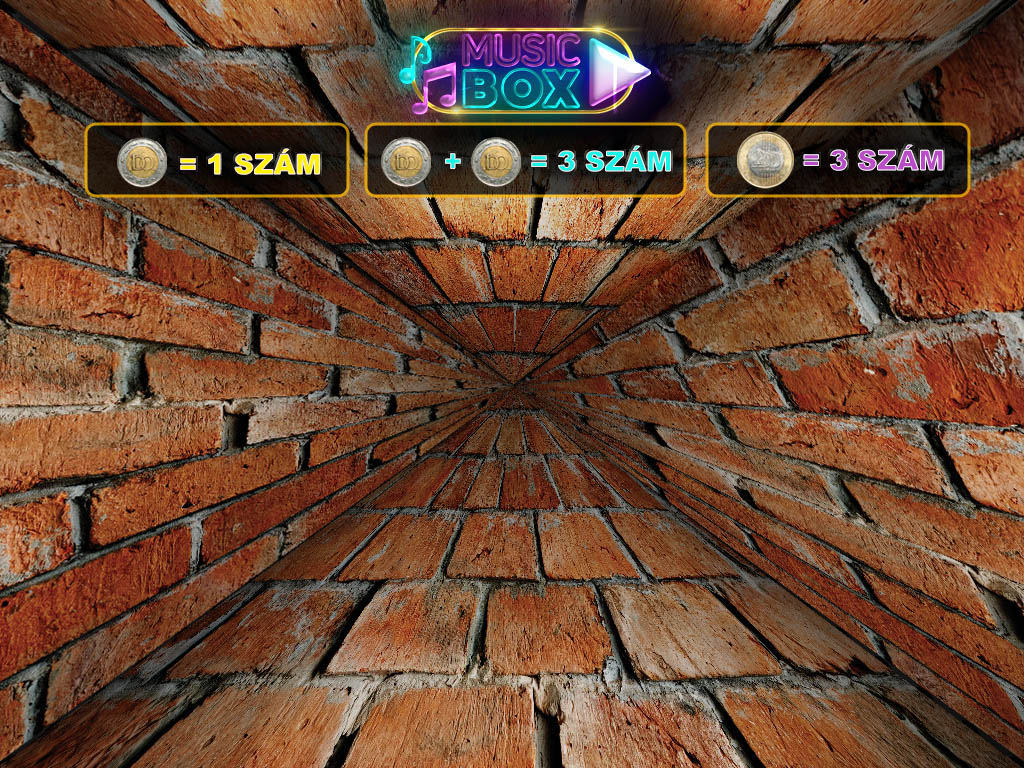
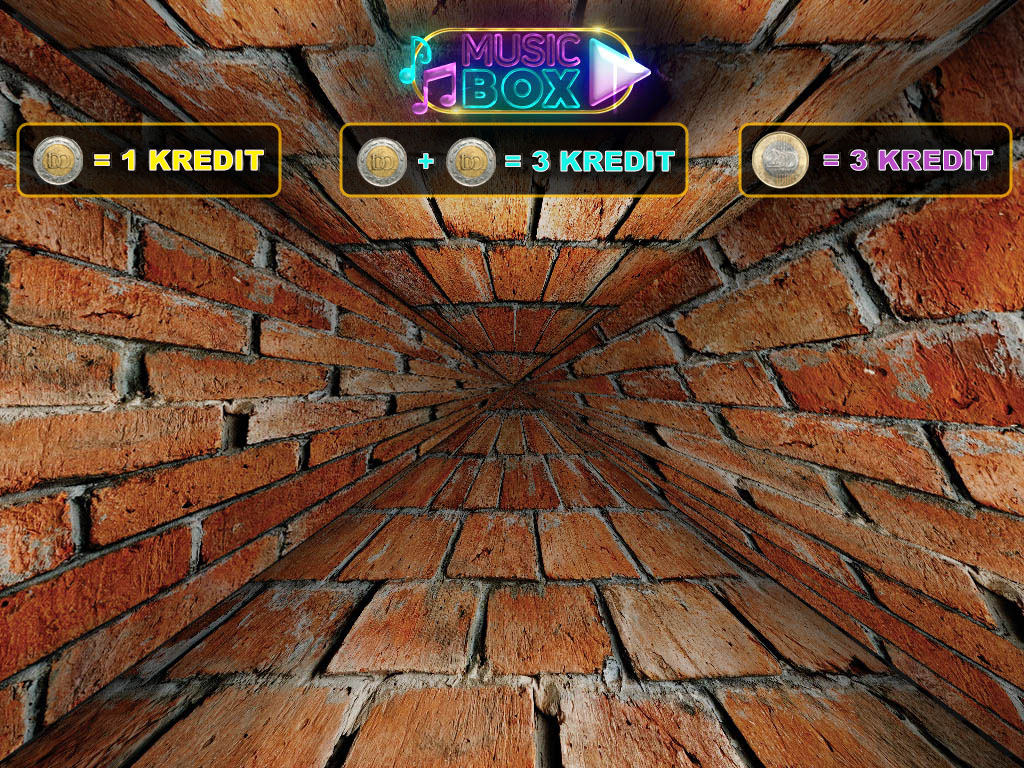
add changes to kredit

Changed region(s): [[0.0, 0.1562, 1.0, 0.2812]]

diff --git a/blue-app/ui/ApplicationWindow.py b/blue-app/ui/ApplicationWindow.py
@@ -39,6 +39,19 @@ from ui import TestHwWindow
 from ui import LanguageSwitcher
 
 from ui.ApplicationWindowHelpers import NotStartSameImmediatellyCheck, AppWindowArrowHandler
+import types
+
+def paintEvent(self, ev):
+    off = 50;
+    painter = QtGui.QPainter(self);
+    path = QtGui.QPainterPath()
+    drawFont = QtGui.QFont("arial-black", 20)
+    drawFont.setWeight(QtGui.QFont.Bold)
+    path.addText(off, drawFont.pointSize() + 3, drawFont, self.text())
+    painter.setRenderHints(QtGui.QPainter.Antialiasing)
+    painter.strokePath(path, QtGui.QPen(QtGui.QColor("#FFFFFF"), 2))
+    painter.fillPath(path, QtGui.QBrush(QtGui.QColor("#ba4dc7")))
+
 
 class ApplicationWindow(QtWidgets.QMainWindow):
 
@@ -132,6 +145,7 @@ class ApplicationWindow(QtWidgets.QMainWindow):
 
         self.ui = Ui_MainWindow()
         self.ui.setupUi(self)
+        self.ui.actualCreditValue.paintEvent = types.MethodType(paintEvent, self.ui.actualCreditValue)
         self.showFullScreen()
         self.moneyTracker = moneyTracker
         self.scanData = []
@@ -548,11 +562,12 @@ class ApplicationWindow(QtWidgets.QMainWindow):
 
     def updateCreditLabel(self):
         if self.ui.stackedWidget.currentIndex() == 0:
-            self.ui.actualCreditValue.setText(str(int(self.creditService.getSongsRepresentation().getCreditValueRepresentation())) + " " + self.texts[self.SONGS])
+            self.ui.actualCreditValue.setText("KREDIT: " + str(int(self.creditService.getSongsRepresentation().getCreditValueRepresentation())))
         else:
             self.ui.actualCreditValue.setText(str(self.creditService.getBluetoothRepresentation().getCreditValueRepresentation()/60) + " " + self.texts[self.MINUTES])
         currentCurrencyClass = AppSettings.currencyClass()
-        self.ui.actualMoneyValue.setText(currentCurrencyClass.toString(self.creditService.getCredit()) + " " + currentCurrencyClass.longString())
+        self.ui.actualMoneyValue.setVisible(False)
+        #self.ui.actualMoneyValue.setText(currentCurrencyClass.toString(self.creditService.getCredit()) + " " + currentCurrencyClass.longString())
 
     def onCreditChange(self, credit):
         self.updateCreditLabel()
